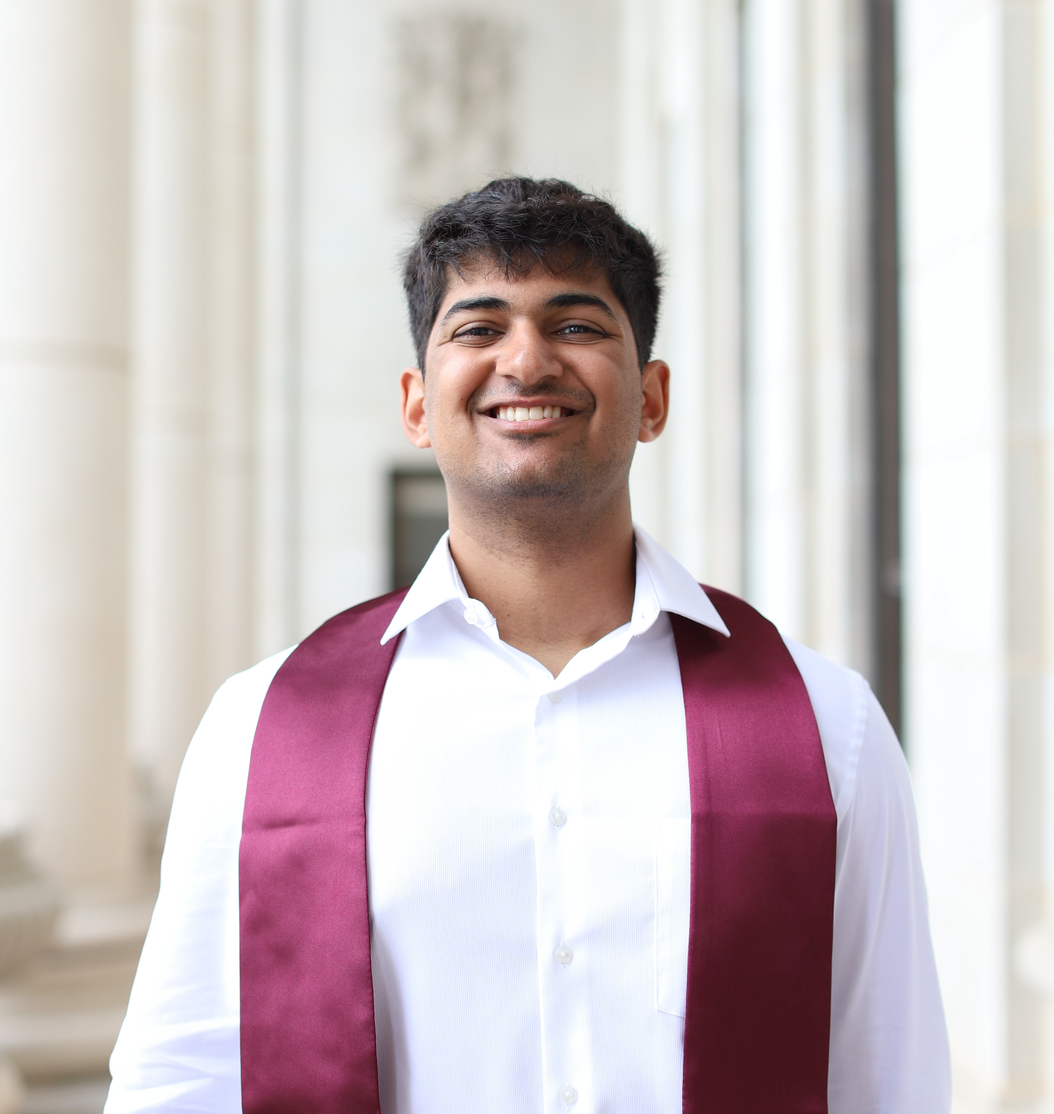
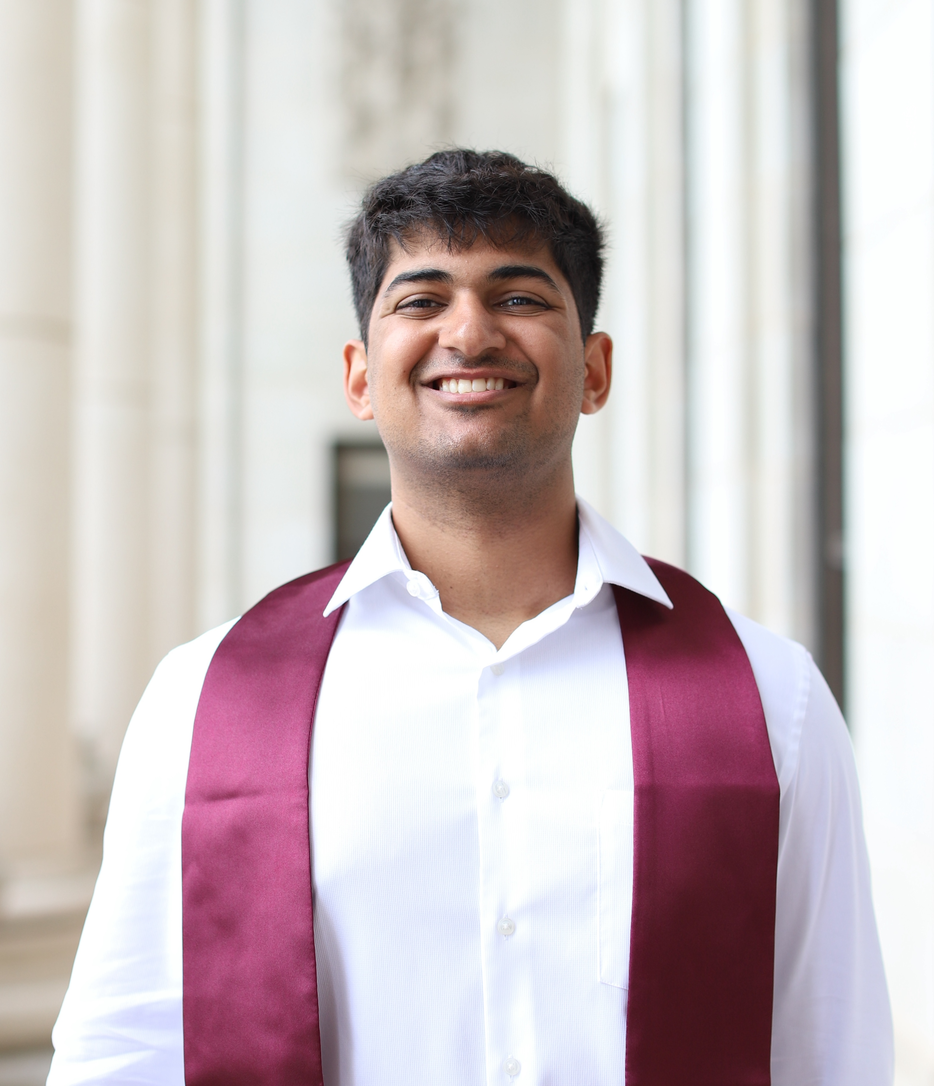
image updates

diff --git a/index.html b/index.html
@@ -32,7 +32,7 @@
       <!-- Left Side: Image and Text -->
       <div class="flex flex-col items-center text-center space-y-6 mx-auto w-full max-w-md px-6 1370:w-1/2 mb-16">
           <!-- Image -->
-          <img src="images/AboutMeHeadshot.jpeg" alt="Sid Venkatraman" class="w-60 h-60 rounded-full border-4 border-gray-200 shadow-lg mb-4 object-cover">
+          <img src="images/IMG_0134 2.JPEG" alt="Sid Venkatraman" class="w-60 h-60 rounded-full border-4 border-gray-200 shadow-lg mb-4 object-cover">
           <!-- Text Content -->
           <p class="text-lg">
               My name is Sid, I'm a dedicated software engineer with a strong interest in continuous learning. I'm currently developing automation testing framework for the trading systems at Charles Schwab.
@@ -378,7 +378,7 @@
     <div class="grid grid-cols-2 sm:grid-cols-3 md:grid-cols-4 gap-4 px-4">
       <!-- Image Card Example -->
       <div class="relative group overflow-hidden rounded-lg shadow-lg">
-        <img src="images/GradPicSuitGate copy.jpg" alt="Experience 1" class="w-full h-full object-cover transition-transform duration-300 group-hover:scale-105">
+        <img src="images/AboutMeHeadshot.jpeg" alt="Experience 1" class="w-full h-full object-cover transition-transform duration-300 group-hover:scale-105">
         <div class="absolute inset-0 bg-black bg-opacity-60 opacity-0 group-hover:opacity-100 transition-opacity duration-300 flex items-center justify-center p-4">
           <div class="text-center text-white">
             <h3 class="text-xl font-semibold">Craig and Galen Brown Foundation Scholar</h3>
